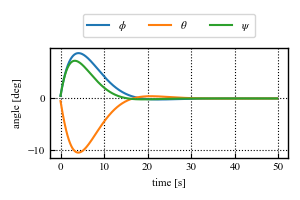
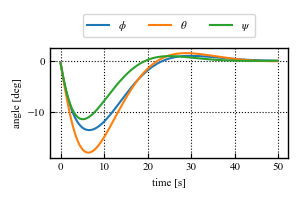
UPDATE: change reward

diff --git a/td3/train.py b/td3/train.py
@@ -11,7 +11,6 @@ import wandb
 from network import TD3Agent
 from utils import *
 
-
 def train():
     # simulation of the agent solving the spacecraft attitude control problem
     env = make("SatelliteContinuous")
@@ -22,7 +21,7 @@ def train():
         "critic_lr": 1e-3,
         "actor_lr": 1e-4,
         "max_episodes": 5000,
-        "max_steps": 700,
+        "max_steps": 600,
         "gamma": 0.99,
         "tau" : 1e-3,
         "buffer_maxlen": 100000,
@@ -80,7 +79,6 @@ def train():
     if not os.path.isdir("models"):
         os.mkdir("models")
     torch.save(agent, curr_dir + "/models/spacecraft_control_td3_home.pkl")
-
 
 def evaluate():
     # simulation of the agent solving the cartpole swing-up problem
@@ -161,7 +159,8 @@ def evaluate():
             state = next_error_state
 
     env.close()
-    #-------------------------------結果のプロット----------------------------------
+    #-------------------------------結果のプロット----------------------------------#
+    #region
     #show the total reward
     print("Total Reward is : " + str(r))
     # データの形の整理
@@ -169,7 +168,7 @@ def evaluate():
     qe = qe.reshape([-1,4])
     w = w.reshape([-1,3])
     # angle = [e for i in]
-
+ 
     # plot the angle and action curve
     #-------------------plot settings------------------------------
     plt.rcParams['font.family'] = 'Times New Roman' # font familyの設定
@@ -318,9 +317,9 @@ def evaluate():
     # plt.ylim(-20, 20)
     plt.grid(True, color='k', linestyle='dotted', linewidth=0.8)
     plt.savefig(curr_dir + "/results/td3_eval/plot_reward.png")
-
     plt.show()
-    # # -------------------------結果プロット終わり--------------------------------
+    #endregion
+    # ----------------------------結果プロット終わり--------------------------------#
 def env_pd():
 
     # simulation of the agent solving the cartpole swing-up problem
@@ -348,8 +347,8 @@ def env_pd():
     action = np.array([0,0,0]).reshape(1,3)
     actions = np.append(actions, action,axis=0)
 
-    dt = 0.01
-    simulation_iterations = int(50/0.01) -1 # dt is 0.01
+    dt = 0.1
+    simulation_iterations = int(50/0.1) -1 # dt is 0.01
 
     for i in range(1, simulation_iterations):
         action = np.squeeze(action)
@@ -360,11 +359,11 @@ def env_pd():
         # w=np.append(w,next_error_state[2].reshape(1,-1),axis=0)
         q=np.append(q,next_state[:4].reshape(1,-1),axis=0)
         qe=np.append(qe,next_error_state[:4].reshape(1,-1),axis=0)
-        w=np.append(w,next_error_state[-3:].reshape(1,-1),axis=0)
+        w=np.append(w,next_error_state[8:11].reshape(1,-1),axis=0)
         r += reward
         # state = next_state
         #----------------control law (PID controller)-----------------------
-        action = -Kp@next_error_state[:4].reshape(-1,1)-Kd@next_error_state[-3:].reshape(-1,1)
+        action = -Kp@next_error_state[:4].reshape(-1,1)-Kd@next_error_state[8:11].reshape(-1,1)
         actions = np.append(actions, action.reshape(1,-1),axis=0)
         #--------------------------------------------------------------------
 
@@ -497,15 +496,11 @@ def env_adaptive():
         action = np.squeeze(action)
 
         # if i == 20/dt:
-        #     env.inertia = env.inertia_comb
-        #     env.inertia_inv = np.linalg.inv(env.inertia)
-        #     env.pre_state[-3:] += np.deg2rad([5,-5,5])
-        #     env.state[-3:] += np.deg2rad([5,-5,5])
-        
-        next_error_state, reward, done, next_state, _ = env.step(action)
+        #     env.inertia = env.inertia_comb   #region
         q=np.append(q,next_state[:4].reshape(1,-1),axis=0)
         qe=np.append(qe,next_error_state[:4].reshape(1,-1),axis=0)
-        w=np.append(w,next_error_state[-3:].reshape(1,-1),axis=0)
+        w=np.append(w,next_error_state[8:11].reshape(1,-1),axis=0)
+        r_hist = np.append(r_hist, np.array([env.r1,env.r2,env.r3,env.r4]).reshape(1,-1),axis=0)
         r += reward
     #----------------control law (Adaptive controller)-----------------------
         W = next_error_state[8:11]
@@ -536,6 +531,8 @@ def env_adaptive():
     if not os.path.isdir("results"):
         os.mkdir("results")
 
+    #---------------------結果のプロット開始-------------------------#
+    #region
     # plot the angle and action curve
     #-------------------plot settings------------------------------
     plt.rcParams['font.family'] = 'Times New Roman' # font familyの設定
@@ -616,7 +613,24 @@ def env_adaptive():
     # plt.ylim(-20, 20)
     plt.grid(True, color='k', linestyle='dotted', linewidth=0.8)
     plt.savefig(curr_dir + "/results/adap_test/plot_angle.png")
+
+    plt.figure(figsize=(yoko,tate),dpi=100)
+    plt.plot(np.arange(max_steps)*dt, r_hist[:,0],label = r"$q$ pnlty")
+    plt.plot(np.arange(max_steps)*dt, r_hist[:,1],label = r"$\omega$ pnlty")
+    plt.plot(np.arange(max_steps)*dt, r_hist[:,2],label = r"$\tau$ pnlty")
+    plt.plot(np.arange(max_steps)*dt, r_hist[:,3],label = r"$\Delta\tau$ pnlty")
+    plt.plot(np.arange(max_steps)*dt, np.sum(r_hist,axis = 1),label = r"$toal$",linestyle='dotted')
+    # plt.title('Action')
+    plt.ylabel('reward')
+    plt.xlabel(r'time [s]')
+    plt.tight_layout()
+    plt.legend()
+    # plt.ylim(-20, 20)
+    plt.grid(True, color='k', linestyle='dotted', linewidth=0.8)
+    plt.savefig(curr_dir + "/results/adap_test/plot_reward.png")
     plt.show()    
+    #endregion
+    #---------------------結果のプロット終わり-----------------------#
 
 if __name__ == '__main__':
     plt.close()

diff --git a/td3/utils.py b/td3/utils.py
@@ -55,16 +55,12 @@ def mini_batch_train_adaptive(env, agent, max_episodes, max_steps, batch_size):
     alpha_max = 1
     d_grad = 2500
     try:
-        # with tqdm(range(max_episodes),leave=False) as pbar:
-        #     for episode, ch in enumerate(pbar):
-                # pbar.set_description("[Train] Episode %d" % episode)
         for episode in range(max_episodes):
             state = env.reset()
             episode_reward = 0    
             th_e = np.array(env.inertia.flatten()*env.multi)
 
             for step in range(max_steps):
-                # pbar.set_postfix(OrderedDict(multi = env.multi, w_0= np.rad2deg(env.startOmega), steps = step))#OrderedDict(loss=1-episode/5, acc=episode/10))
                 action = agent.get_action(state, (episode + 1) * (step + 1))
                 para_candi = (action + 1)/2
                 #----------------control law (Adaptive controller)-----------------------

diff --git a/td3/environment.py b/td3/environment.py
@@ -142,12 +142,12 @@ class SatelliteContinuousEnv(gym.Env):
 
         #シミュレーションパラメータ　
         self.dt = 0.1 
-        self.simutime =70
+        self.simutime =60
         self.omega_count = 0
         
         #報酬パラメータ
-        self.q_weight = 1*5#1*20
-        self.w_weight = 1.5*10#1.5*100
+        self.q_weight = 1*10#1*20
+        self.w_weight = 1.5*5#1.5*100
         self.action_weight = 0.25#0.25*10
         self.action_rate_weight = 0.1
         
